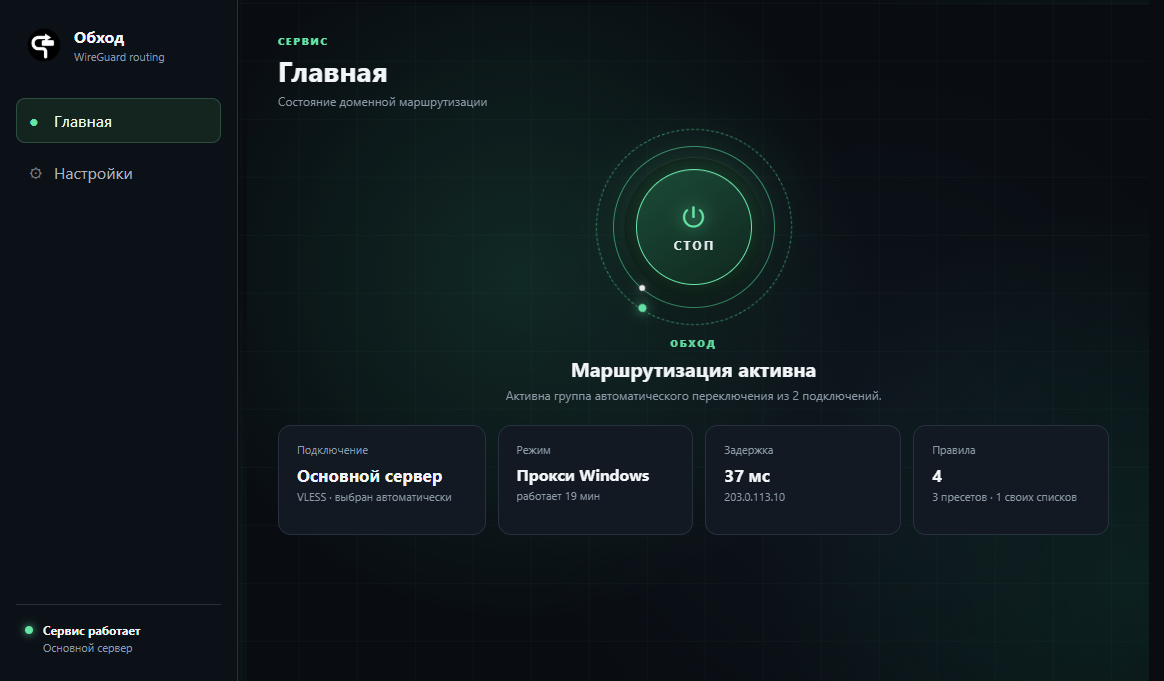
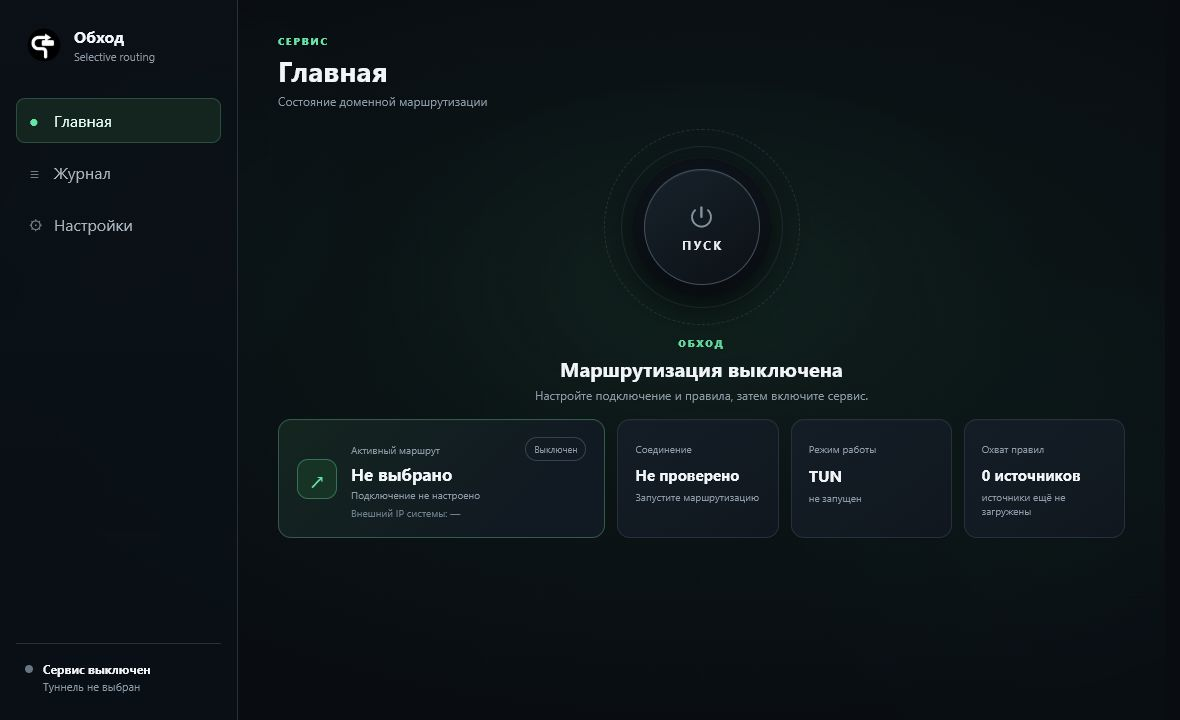
Refresh release repository landing page

diff --git a/README.md b/README.md
@@ -5,81 +5,77 @@
 <h1 align="center">Обход</h1>
 
 <p align="center">
-  Утилита для безопасной, выборочной маршрутизации и контроля сетевого трафика в Windows.
+  Центр управления защищённой маршрутизацией в Windows
 </p>
 
 <p align="center">
   <a href="https://github.com/Ktoto59/obhod-releases/releases/latest"><strong>Скачать последнюю версию</strong></a>
+  ·
+  <a href="https://github.com/Ktoto59/obhod">Исходный код и документация</a>
 </p>
 
-## Что делает приложение
+## Управляемый маршрут для нужного трафика
 
-«Обход» направляет трафик выбранных доменов и подсетей через заданное защищённое подключение. Остальной трафик продолжает использовать обычный маршрут Windows. Все правила, профили и пользовательские списки настраиваются локально.
+«Обход» направляет трафик выбранных программ, доменов и подсетей через
+настроенные VPN- и прокси-подключения. Остальной трафик продолжает работать
+напрямую.
 
-Приложение показывает фактически работающий сервер, измеряет прямой ping до него и умеет автоматически переключаться на доступное резервное подключение.
+Пользователь видит активный маршрут, контролирует применённые правила и может
+объединить несколько подключений в группу автоматического выбора. Приложение
+периодически проверяет маршруты реальным HTTPS-запросом и выбирает доступный
+вариант без лишних переключений между близкими по скорости серверами.
 
-![Главный экран Обхода](assets/screenshots/home.png)
+![Главный экран «Обхода»](assets/screenshots/home.png)
 
-## Основные возможности
+## Возможности
 
-- выборочная маршрутизация доменов, IP-адресов и подсетей;
+- маршрутизация приложений, доменов, IP-адресов и подсетей;
+- выбор установленных программ, запущенных процессов и отдельных `.exe`;
 - режимы TUN, системного прокси Windows и локального прокси;
-- подключения WireGuard, VLESS/Reality, Shadowsocks и Trojan;
-- импорт WireGuard `.conf` и ссылок подключения;
-- готовые пресеты, собственные правила и внешние списки;
-- группа автоматического выбора с переключением при сбое сервера;
-- отображение активного сервера и прямого ping до него;
+- WireGuard, AmneziaWG, VLESS/Reality, Shadowsocks, Trojan, Hysteria2, TUIC и
+  AnyTLS;
+- импорт WireGuard/AmneziaWG `.conf` и ссылок подключения;
+- готовые пресеты, локальные правила и внешние `.srs`, `.json`, `.lst` и `.txt`;
+- автоматический выбор рабочего маршрута с настраиваемой чувствительностью;
+- реальные HTTPS-проверки соединения вместо ICMP;
+- автоматическое восстановление после сна Windows, возврата сети или сбоя ядра;
 - встроенный DNS-резолвер с UDP, TCP, DoT и DoH;
-- DNS-профили Cloudflare, Google, Quad9, AdGuard и Control D;
-- проверка фактической задержки DNS-запроса;
-- безопасный диагностический журнал и экспорт;
-- системный трей, автозапуск и запуск соединения вместе с приложением;
-- ручная загрузка обновлений и настраиваемая автоматическая проверка.
+- системный трей, автозапуск и управляемая установка обновлений.
 
-## Подключения
+## Понятные настройки подключений
 
-Профиль можно создать вручную, импортировать из WireGuard-конфигурации или добавить ссылкой. Несколько подключений разрешено объединить в группу автоматического выбора.
+Создание нового профиля визуально отделено от редактирования существующего.
+Параметры AmneziaWG сгруппированы по назначению, а технические поля системного
+или локального прокси появляются только в соответствующем режиме.
 
-![Управление подключениями](assets/screenshots/tunnels.png)
+![Создание и настройка подключения](assets/screenshots/settings.png)
 
-## Маршрутизация и отказоустойчивость
+## Автоматический выбор и устойчивость
 
-В разделе маршрутизации выбираются режим перехвата, локальный порт и правила запуска. Если включена группа автоматического выбора, интерфейс показывает все серверы группы вместо одного «основного» подключения.
+Несколько подключений можно объединить в URLTest-группу. `sing-box` проверяет
+их доступность через маршрут и выбирает рабочее подключение. Переключение на
+более быстрый сервер происходит только при заметной разнице задержки, поэтому
+стабильный маршрут не меняется из-за небольших колебаний.
 
-При недоступности активного сервера `sing-box` продолжает проверки, выбирает доступный резервный маршрут и переводит на него существующие соединения. Пока сервис работает, выбранный трафик не выпускается напрямую при сбое туннеля.
+При выходе Windows из сна, восстановлении сети или неожиданной остановке ядра
+приложение выполняет ограниченное число попыток восстановления. Ручное
+отключение всегда отменяет ожидающий перезапуск.
 
-![Настройки маршрутизации](assets/screenshots/routing.png)
+## Контроль данных
 
-## DNS-резолвер
-
-Встроенный резолвер обрабатывает запросы доменов из выбранных правил через активное подключение или группу. Доступны обычный DNS по UDP/TCP, DNS over TLS и DNS over HTTPS.
-
-Готовый профиль автоматически выставляет адрес сервера, bootstrap DNS и корректный DoH-путь. При необходимости можно указать собственный сервер и TTL. Кнопка проверки отправляет настоящий DNS-запрос и показывает задержку и IP ответившего сервера; для DoT и DoH также проверяется защищённое соединение.
-
-![Настройки DNS-резолвера](assets/screenshots/dns.png)
-
-## Обновления
-
-Приложение умеет искать новую версию после запуска и затем каждые шесть часов. Автоматический поиск можно отключить.
-
-Найденное обновление не скачивается без разрешения. На главной появляется компактное уведомление с номером версии, переходом в раздел «О приложении» и крестиком. Скрытие запоминается для конкретной версии. Загрузка и установка запускаются отдельными кнопками.
-
-![Раздел «О приложении»](assets/screenshots/about.png)
-
-## Безопасность и приватность
-
-- ключи и параметры подключений защищаются средствами Windows DPAPI;
+- профили и ключи защищаются средствами Windows DPAPI;
 - конфигурации и пользовательские списки остаются на компьютере;
-- диагностический экспорт скрывает ключи, пароли, UUID и ссылки;
+- скрытая телеметрия отсутствует;
+- диагностический экспорт скрывает ключи, пароли, UUID, локальные пути и ссылки;
 - перед запуском конфигурация проверяется комплектным ядром `sing-box`;
 - при завершении работы восстанавливаются настройки системного прокси;
-- обновления не загружаются и не устанавливаются без подтверждения.
+- обновления не скачиваются и не устанавливаются без подтверждения.
 
 ## Системные требования
 
 - Windows 10 или Windows 11, x64;
 - права администратора для TUN-режима;
-- подключение к сети для внешних списков, DNS-проверки и обновлений.
+- подключение к сети для внешних списков, проверки маршрутов и обновлений.
 
 ## Установка
 
@@ -87,6 +83,9 @@
 2. Скачайте `Obhod-Setup-<версия>.exe`.
 3. Запустите установщик и следуйте его инструкциям.
 
-При обновлении сохраняются подключения, защищённые ключи, DNS-параметры и пользовательские правила.
+Подключения, защищённые ключи, DNS-параметры и пользовательские правила
+сохраняются при обновлении.
 
-> Этот репозиторий используется для публикации официальных установщиков и файлов обновления «Обхода».
+> Этот репозиторий используется только для публикации официальных установщиков
+> и файлов автоматического обновления «Обхода». Разработка ведётся в
+> [`Ktoto59/obhod`](https://github.com/Ktoto59/obhod).
